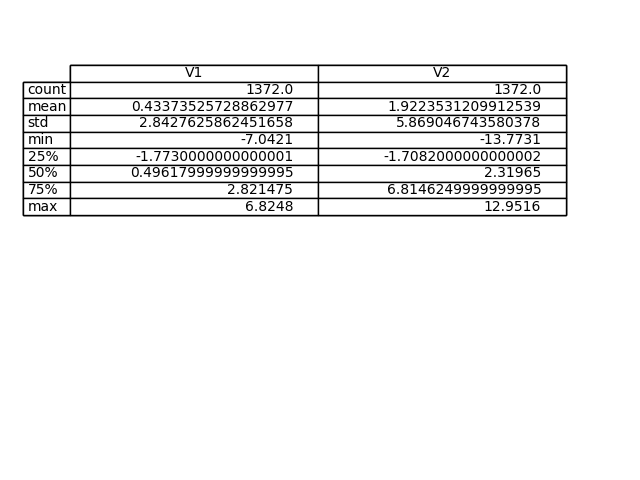
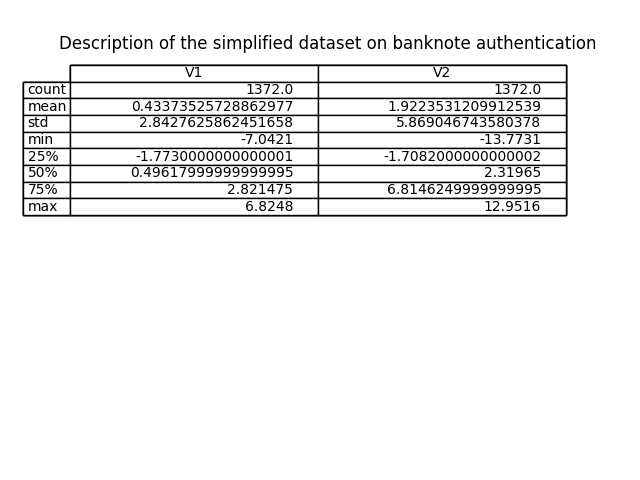
add title on description

Changed region(s): [[0.0938, 0.0625, 0.9375, 0.125]]

diff --git a/README.md b/README.md
@@ -39,5 +39,4 @@ Increasing the dimensions increases the complexity of the data without necessari
 
 Although the original dataset contains four features; for this project, only two features will be used, making it more suitable to apply K-means clustering
 
-## Analysis
 ## Report
